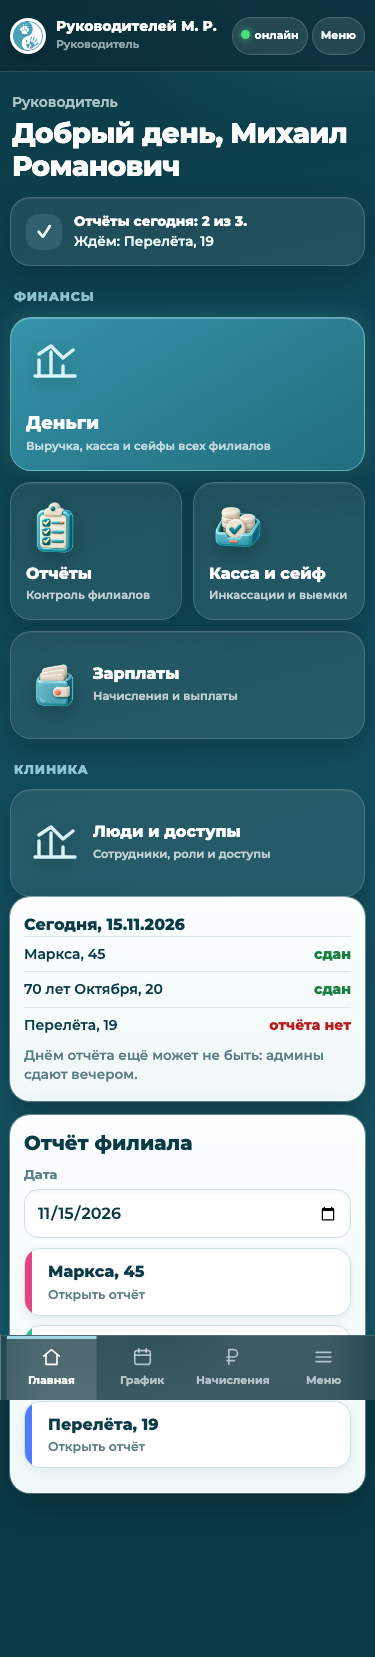
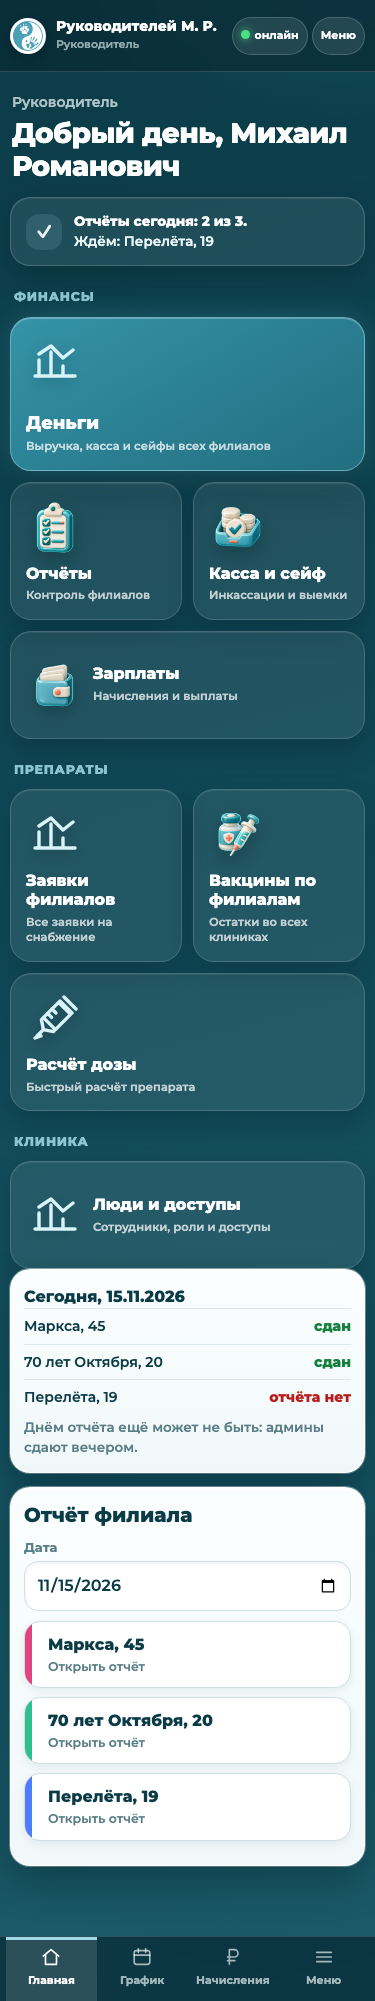
test: apply architect 3008 3010 3014

diff --git a/ui2-common.css b/ui2-common.css
@@ -251,6 +251,8 @@ body.ui2 .ui2-group-title{
   font-size:12.5px;font-weight:800;letter-spacing:.06em;text-transform:uppercase;
 }
 body.ui2 .ui2-role-tiles{display:grid;grid-template-columns:minmax(0,1fr) minmax(0,1fr);gap:11px}
+body.ui2 .ui2-role-tiles.single .ui2-role-tile{grid-column:1/-1}
+body.ui2 .ui2-role-tiles .ui2-role-tile:last-child:nth-child(odd){grid-column:1/-1}
 body.ui2 .ui2-role-tile{
   position:relative;min-width:0;min-height:132px;padding:15px;text-align:left;color:#fff;
   background:rgba(255,255,255,.075);border:1px solid rgba(255,255,255,.17);border-radius:21px;
@@ -448,13 +450,13 @@ body.ui2.login-mode main{max-width:420px;min-height:100vh;min-height:100dvh;padd
 body.ui2 .ui2-login-shell{min-height:100vh;min-height:100dvh;padding:calc(42px + env(safe-area-inset-top,0px)) 0 calc(28px + env(safe-area-inset-bottom,0px));display:flex;flex-direction:column;justify-content:flex-start;text-align:center}
 body.ui2 .ui2-login-spacer{flex:1;min-height:18px}
 body.ui2 .ui2-halo{width:172px;height:172px;border-radius:50%;display:grid;place-items:center;margin:0 auto;background:radial-gradient(circle,rgba(159,216,227,.30) 0%,rgba(74,160,180,.12) 45%,transparent 70%);animation:ev-breathe 3.2s cubic-bezier(.45,0,.25,1) infinite}
-body.ui2 .ui2-halo img{width:112px;height:112px;filter:brightness(0) invert(1) drop-shadow(0 0 18px rgba(159,216,227,.75)) drop-shadow(0 0 4px rgba(255,255,255,.6))}
+body.ui2 .ui2-halo .evro-mark{width:112px;height:112px;color:#fff;filter:drop-shadow(0 0 18px rgba(159,216,227,.75)) drop-shadow(0 0 4px rgba(255,255,255,.6))}
 body.ui2 .ui2-wordmark{display:flex;align-items:baseline;justify-content:center;color:#fff;font-weight:800;letter-spacing:.04em;line-height:1;white-space:nowrap}
 body.ui2 .ui2-wordmark.lg{margin-top:28px;font-size:34px}
 body.ui2 .ui2-wordmark.sm{font-size:19px}
 body.ui2 .ui2-wordmark .gap{width:.32em}
-body.ui2 .ui2-wordmark img{width:.72em;height:.72em;margin:0 .03em;align-self:baseline;filter:brightness(0) invert(1);animation:none}
-body.ui2 .ui2-login-lead{margin:14px 0 0;color:rgba(234,246,248,.82);font-size:16px;line-height:1.45}
+body.ui2 .ui2-wordmark .evro-mark{width:.72em;height:.72em;margin:0 .03em;align-self:baseline;color:#fff;animation:none}
+body.ui2 .ui2-login-lead{margin:14px 0 0;color:rgba(234,246,248,.82);font-size:clamp(12px,4.1vw,16px);line-height:1.45;white-space:nowrap}
 body.ui2 .ui2-login-btn{height:60px;border-radius:20px;font-size:18px}
 body.ui2 .ui2-key-login h2{margin-top:34px;color:#fff;text-align:center;font-size:22px}
 body.ui2 .ui2-login-entry{min-height:150px;margin-top:22px}
@@ -471,8 +473,8 @@ body.ui2 .ui2-numrow button{padding:4px 6px;color:var(--ev-mint);background:tran
 body.ui2 .ui2-key-login .ui2-shared{display:flex;align-items:flex-start;justify-content:center;gap:10px;max-width:280px;margin:14px auto 0;color:rgba(234,246,248,.82);font-size:12.5px;text-align:left}
 body.ui2 .ui2-key-login .ui2-shared input{flex:none;width:20px;height:20px;min-height:0;margin:1px 0 0;accent-color:var(--ev-accent-light)}
 body.ui2 .ui2-key-login .ui2-shared small{color:rgba(234,246,248,.62)}
-body.ui2 .ui2-pad{display:grid;grid-template-columns:repeat(3,1fr);gap:10px;max-width:300px;margin:0 auto}
-body.ui2 .ui2-pad button{height:58px;border-radius:18px;color:#fff;background:rgba(255,255,255,.08);border:1px solid rgba(255,255,255,.18);font-size:24px;font-weight:700;box-shadow:inset 0 1px 0 rgba(255,255,255,.08)}
+body.ui2 .ui2-pad{display:grid;grid-template-columns:repeat(3,minmax(72px,1fr));gap:10px;width:100%;max-width:360px;margin:0 auto}
+body.ui2 .ui2-pad button{min-width:72px;height:58px;border-radius:18px;color:#fff;background:rgba(255,255,255,.08);border:1px solid rgba(255,255,255,.18);font-size:24px;font-weight:700;box-shadow:inset 0 1px 0 rgba(255,255,255,.08)}
 body.ui2 .ui2-pad button:active{transform:scale(.97);background:rgba(159,216,227,.18)}
 body.ui2 .ui2-pad .blank{visibility:hidden}
 body.ui2 .ui2-pad .del{color:rgba(234,246,248,.72);background:transparent;border-color:transparent}
@@ -483,4 +485,4 @@ body.ui2 .ui2-prepare .ic{display:grid;place-items:center;width:76px;height:76px
 body.ui2 .ui2-prepare .ic img,body.ui2 .ui2-prepare .ic svg{width:76px;height:76px;object-fit:contain}
 body.ui2 .ui2-prepare h2{color:#fff}
 body.ui2 .ui2-prepare p{margin:10px 0 22px;color:rgba(234,246,248,.78)}
-@media(max-height:700px){body.ui2 .ui2-login-shell{padding-top:24px}.ui2-halo{width:136px!important;height:136px!important}.ui2-halo img{width:88px!important;height:88px!important}.ui2-login-entry{min-height:126px!important}.ui2-pad button{height:50px!important}}
+@media(max-height:700px){body.ui2 .ui2-login-shell{padding-top:24px}.ui2-halo{width:136px!important;height:136px!important}.ui2-halo .evro-mark{width:88px!important;height:88px!important}.ui2-login-entry{min-height:126px!important}.ui2-pad button{height:50px!important}}

diff --git a/config.js b/config.js
@@ -34,14 +34,27 @@ window.EVROVET_UI2_CONFIG=Object.freeze({
     birthdays:false
   }),
   roleTiles:Object.freeze({
-    head:Object.freeze(['head_money','head_reports','head_cash_safe','head_payroll','people_roles']),
+    head:Object.freeze(['head_money','head_reports','head_cash_safe','head_payroll','supplies_all_requests','vaccines_all_branches','dose_calculator','people_roles']),
     admin:Object.freeze(['evening_report','cash_acceptance','vaccines','supplies']),
-    doctor:Object.freeze(['appointments','dose_calculator','supplies']),
+    doctor:Object.freeze(['appointments','vaccines','dose_calculator','supplies']),
     assistant_clinical:Object.freeze(['my_accruals','where_i_work','vaccines','dose_calculator','supplies']),
     assistant_tech:Object.freeze(['my_accruals','where_i_work','vaccines','dose_calculator','supplies']),
-    callcenter:Object.freeze(['callcenter_shift','my_accruals']),
+    callcenter:Object.freeze(['callcenter_shift','my_accruals','vaccines','where_i_work']),
     courier:Object.freeze(['my_accruals','vaccines_all_branches','supplies_all_requests','supply_order'])
   }),
+  slogans:Object.freeze([
+    'Ваша смена — наша забота',
+    'Мы ценим вас каждый день',
+    'Спасибо, что вы с нами',
+    'Вы — сердце нашей клиники',
+    'Мы рядом в каждой смене',
+    'Вы делаете мир добрее',
+    'С заботой о вашей работе',
+    'Сделано для вас',
+    'Ваша смена стала проще',
+    'Всё под рукой — для вас'
+  ]),
+  sloganRotate:true,
   navByRole:Object.freeze({
     default:Object.freeze(['home','schedule','accruals','menu']),
     courier:Object.freeze(['home','accruals','menu'])

diff --git a/shots/home-v2/README.md b/shots/home-v2/README.md
@@ -2,6 +2,14 @@
 
 Синтетические тестовые данные, без рабочих денег и персональных данных.
 
-Роли: `admin`, `doctor`, `assistant`, `callcenter`, `aho` (Специалист АХО), `head`. Для каждой роли сохранены PNG на ширинах 375 и 320 точек: `<ширина>-<роль>.png`.
+Роли: `admin`, `doctor`, `assistant`, `callcenter`, `aho` (Специалист АХО), `head`. Для каждой роли сохранены PNG на ширинах 375 и 320 точек: `<ширина>-<роль>.png`. Нижняя навигация на длинных снимках находится в потоке страницы и не перекрывает содержимое.
 
-Автоматическая проверка `tests/home-v2.test.cjs` дополнительно проходит эти шесть ролей на ширинах 320, 375, 414, 768 и 1280 в Chromium, Firefox и WebKit. Проверяются отсутствие горизонтального скролла, состав плиток, нижняя навигация, двойная роль и отсутствие будущих модулей на главной.
+Вход:
+
+- `375-entry-start.png` — стартовый экран;
+- `375-entry-mark-closeup.png` — знак из утверждённого SVG-symbol крупно;
+- `375-entry-number.png` — ввод личного номера;
+- `375-entry-pin.png` — PIN и полноширинная клавиатура;
+- `320-entry-longest-slogan.png` — длинный слоган без переноса на 320 точках.
+
+Автоматическая проверка `tests/home-v2.test.cjs` дополнительно проходит эти шесть ролей на ширинах 320, 375, 414, 768 и 1280 в Chromium, Firefox и WebKit. Проверяются отсутствие горизонтального скролла, состав и порядок плиток, полная ширина одиночной плитки, фирменный знак, клавиатура, нижняя навигация, двойная роль и отсутствие будущих модулей на главной. `tests/slogans-3014.test.cjs` проверяет десять последовательных дат, точный список слоганов и отсутствие переноса на 320 точках.
